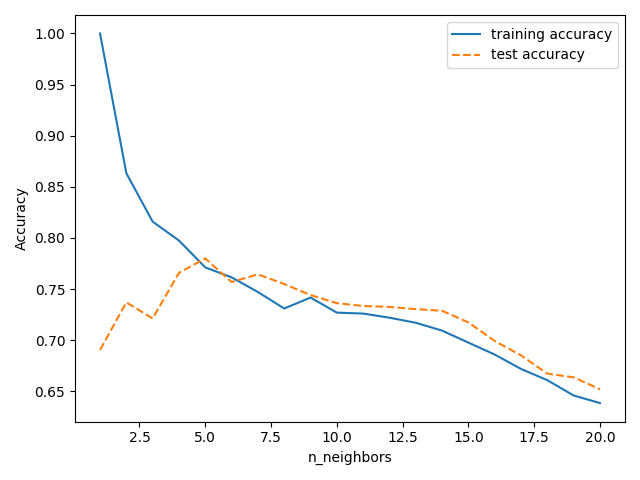
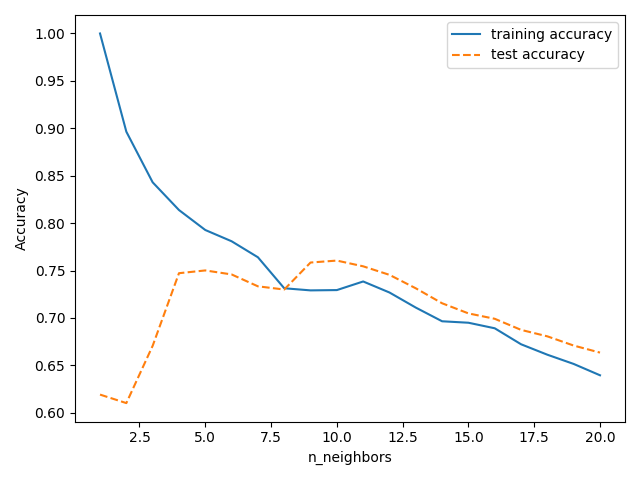
Add random_state param to plot_training_vs_test_accuracy_by_neighbors()

diff --git a/ch2_learning_algos/cancer/cancer.py b/ch2_learning_algos/cancer/cancer.py
@@ -1,7 +1,6 @@
 from sklearn.datasets import load_breast_cancer
-from sklearn.model_selection import train_test_split
 from sklearn.neighbors import KNeighborsClassifier
-import matplotlib.pyplot as plt
+
 from util.util import plot_training_vs_test_accuracy_by_neighbors
 
 # Measure training and test accuracy
@@ -14,4 +13,5 @@ plot_training_vs_test_accuracy_by_neighbors(cancer.data,
                                             cancer.target,
                                             method_class=KNeighborsClassifier,
                                             neighbors_range=range(1, 11),
+                                            random_state=66,
                                             stratify=cancer.target)

diff --git a/util/util.py b/util/util.py
@@ -2,8 +2,8 @@ from sklearn.model_selection import train_test_split
 import matplotlib.pyplot as plt
 
 
-def plot_training_vs_test_accuracy_by_neighbors(X, y, method_class, neighbors_range, stratify=None):
-    X_train, X_test, y_train, y_test = train_test_split(X, y, stratify=stratify, random_state=66)
+def plot_training_vs_test_accuracy_by_neighbors(X, y, method_class, neighbors_range, random_state=0, stratify=None):
+    X_train, X_test, y_train, y_test = train_test_split(X, y, stratify=stratify, random_state=random_state)
 
     training_accuracy = []
     test_accuracy = []

diff --git a/ch2_learning_algos/wave_regr/wave_training_vs_test_accuracy.py b/ch2_learning_algos/wave_regr/wave_training_vs_test_accuracy.py
@@ -7,4 +7,5 @@ X, y = make_wave()
 plot_training_vs_test_accuracy_by_neighbors(X, y,
                                             method_class=KNeighborsRegressor,
                                             neighbors_range=range(1, 21),
-                                            stratify=None)
+                                            stratify=None,
+                                            random_state=0)
